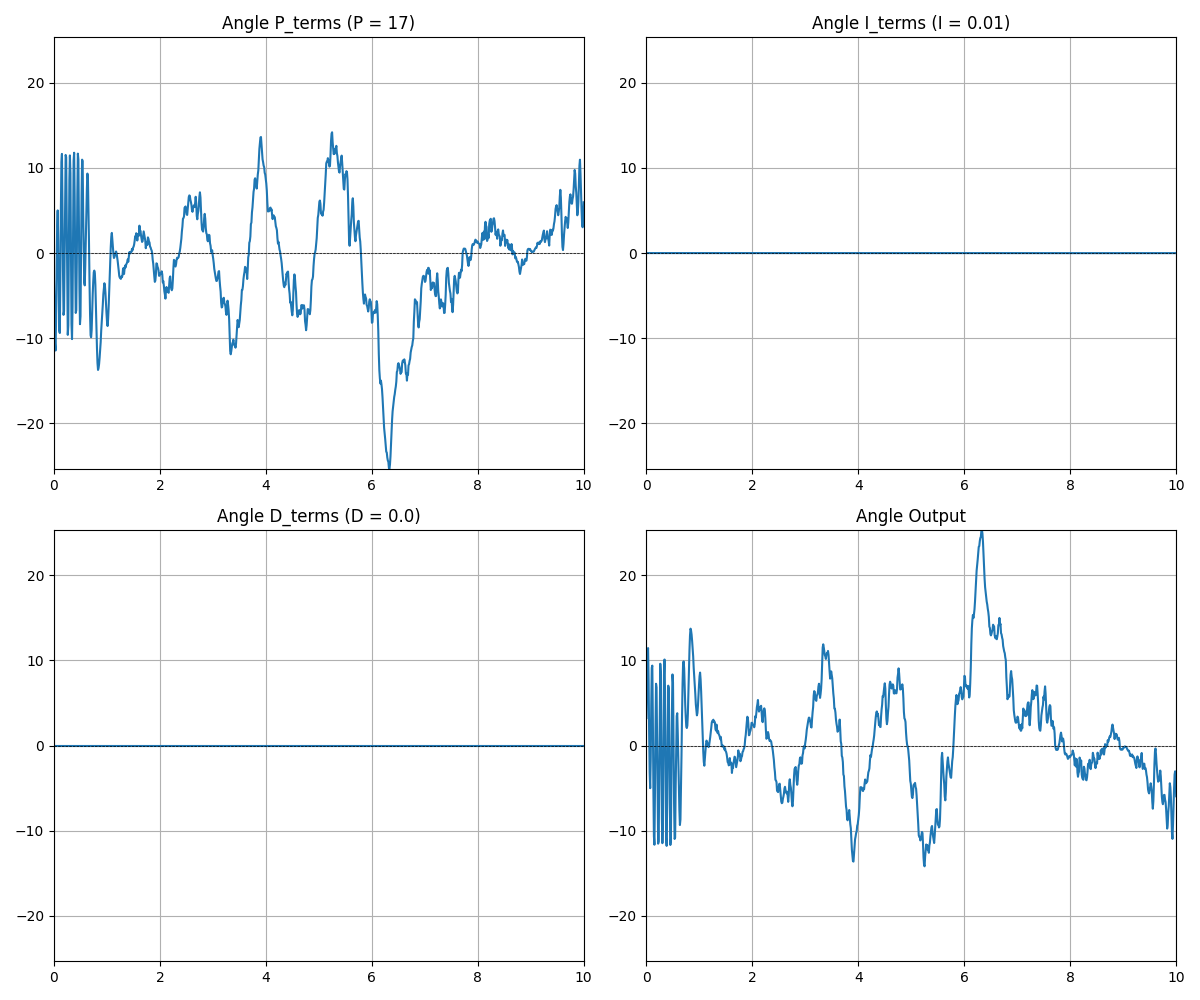
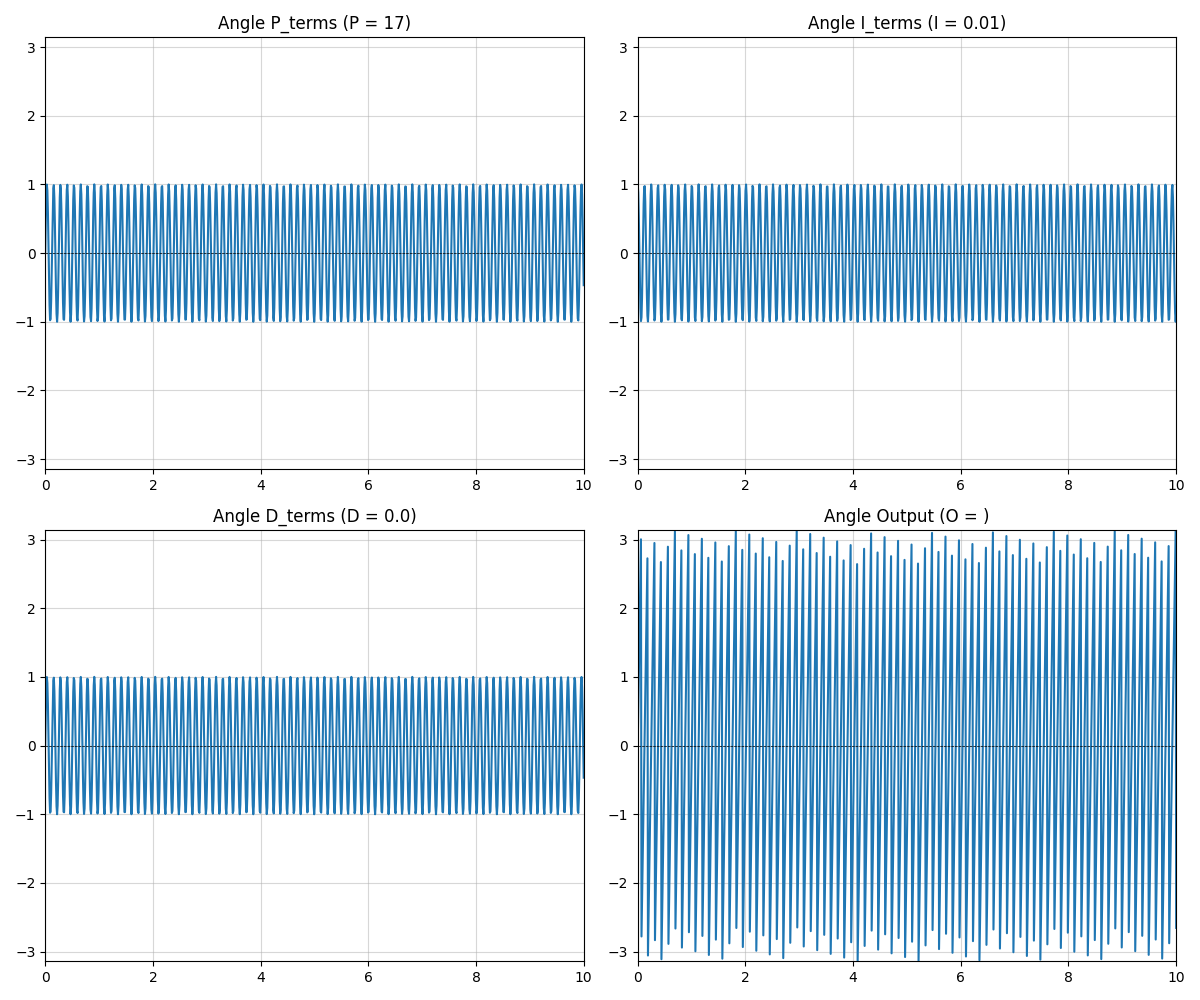
Trying to make graphs more visible or interactive

diff --git a/src/util/plot_graphs.py b/src/util/plot_graphs.py
@@ -2,209 +2,185 @@ import matplotlib.pyplot as plt
 import numpy as np
 
 class Plotter:
-    def __init__(self, apid, ppid, timer=10):
+    def __init__(self, apid, ppid):
+        """
+        Initialize the Plotter with PID constants for angle and position.
+
+        :param apid: List of PID constants for angle [P, I, D]
+        :param ppid: List of PID constants for position [P, I, D]
+        """
         self.pid_constants = {
-            'Angle': {
-                'P': apid[0],
-                'I': apid[1],
-                'D': apid[2],
-            },
-            'Position': {
-                'P': ppid[0],
-                'I': ppid[1],
-                'D': ppid[2]
-            }
+            'Angle': {'P': apid[0], 'I': apid[1], 'D': apid[2]},
+            'Position': {'P': ppid[0], 'I': ppid[1], 'D': ppid[2]}
         }
         self.title = f"(AP={apid[0]}, AI={apid[1]}, AD={apid[2]}, PP={ppid[0]}, PI={ppid[1]}, PD={ppid[2]})"
-        self.timer = timer
-        self.color_cycle = [
-            '#0077BB', '#44A0E6', '#0099CC',
-            '#FF69B4', '#FFFF00', '#FFA07A',
-            '#8B0A0A', '#6495ED', '#4B0082',
-            '#32CD32', '#008000',
-            '#964B00', '#666666', '#C5CAE9'
-        ]
+        self.color_cycle = plt.cm.tab20.colors
 
-    def stackplot_pid_values(self, p_terms, i_terms, d_terms, name="PID_stackplot"):
-        fig, plts = plt.subplots(figsize = (10, 10))
-
-        # Need size of smallest dataset to be able to plot properly
-        smaller_value = min(len(p_terms), len(i_terms), len(d_terms))
-        time_values = np.linspace(0, self.timer, smaller_value)
-
-        plts.set_xlim(0, self.timer)
-        
-        plts.set_alpha(0.5)
-        color_map = ["#0000FF", "#00FF00", "#FF0000"]
-        y = np.vstack([p_terms, i_terms, d_terms])
-        plts.stackplot(time_values, y, colors = color_map)
-        
-        plt.title(f'Stackplot PID values {self.title}')
-        plt.savefig(f'graphs/{name}')
-
-
-    def subplot_p_i_d_values(self, pid_type, pid_terms, data_range_percentile=99, name="PID_subplot"):
+    def stackplot_pid_values(self, p_terms, i_terms, d_terms, timer, name="PID_stackplot"):
         """
-        Parameters:
-        - pid_type: Type of PID (e.g., 'Angle', 'Position')
-        - pid_terms: Dictionary containing PID terms (pterms, iterms, dterms)
-        - data_range_percentile: Percentile to determine Y-axis limits (symmetrical around zero)
-        - name: Name for the saved plot file
+        Create a stack plot of PID values.
+
+        :param p_terms: List of P terms
+        :param i_terms: List of I terms
+        :param d_terms: List of D terms
+        :param timer: Duration for the x-axis
+        :param name: Name for the saved plot file
         """
-        fig, plts = plt.subplots(2, 2, figsize=(12, 10))
-        plts = [plts] if not isinstance(plts, np.ndarray) else plts  # Handle both cases for plts
-        plot_indices = [(0, 0), (0, 1), (1, 0), (1, 1)]
+        try:
+            fig, plts = plt.subplots(figsize=(10, 10))
+            smaller_value = min(len(p_terms), len(i_terms), len(d_terms))
+            time_values = np.linspace(0, timer, smaller_value)
 
-        # Calculate symmetrical y-limits based on the data range percentile
-        all_values = [val for _, values in pid_terms.items() for val in values]
-        lower_lim = np.percentile(all_values, (100 - data_range_percentile) / 2)
-        upper_lim = np.percentile(all_values, 100 - (100 - data_range_percentile) / 2)
-        y_lim = max(abs(lower_lim), abs(upper_lim))
+            plts.set_xlim(0, timer)
+            plts.set_alpha(0.5)
+            color_map = ["#0000FF", "#00FF00", "#FF0000"]
+            y = np.vstack([p_terms, i_terms, d_terms])
+            plts.stackplot(time_values, y, colors=color_map)
 
-        for (i, j), (label, values) in zip(plot_indices, pid_terms.items()):
-            plts[i, j].set_xlim(0, self.timer)
-            plts[i, j].set_ylim(-y_lim, y_lim)
-            x = np.linspace(0, self.timer, len(values))
-            plts[i, j].plot(x, values)
-            plts[i, j].grid()
-            
-            # Zero line for better visibility
-            plts[i, j].axhline(0, color='black', lw=0.5, linestyle='--')
-            
-            if label in ['p_terms', 'i_terms', 'd_terms']:
+            plt.title(f'Stackplot PID values {self.title}')
+            plt.savefig(f'graphs/{name}')
+        except Exception as e:
+            print(f"Error in stackplot_pid_values: {e}")
+
+    def subplot_p_i_d_values(self, pid_type, pid_terms, timer, data_range_percentile=99, name="PID_subplot"):
+        """
+        Create subplots for P, I, and D values.
+
+        :param pid_type: Type of PID (e.g., 'Angle', 'Position')
+        :param pid_terms: Dictionary containing PID terms (pterms, iterms, dterms)
+        :param timer: Duration for the x-axis
+        :param data_range_percentile: Percentile to determine Y-axis limits (symmetrical around zero)
+        :param name: Name for the saved plot file
+        """
+        try:
+            fig, plts = plt.subplots(2, 2, figsize=(12, 10))
+            plts = [plts] if not isinstance(plts, np.ndarray) else plts
+            plot_indices = [(0, 0), (0, 1), (1, 0), (1, 1)]
+
+            all_values = [val for _, values in pid_terms.items() for val in values]
+            lower_lim = np.percentile(all_values, (100 - data_range_percentile) / 2)
+            upper_lim = np.percentile(all_values, 100 - (100 - data_range_percentile) / 2)
+            y_lim = max(abs(lower_lim), abs(upper_lim))
+
+            for (i, j), (label, values) in zip(plot_indices, pid_terms.items()):
+                plts[i, j].set_xlim(0, timer)
+                plts[i, j].set_ylim(-y_lim, y_lim)
+                x = np.linspace(0, timer, len(values))
+                plts[i, j].plot(x, values)
+                plts[i, j].grid(alpha=0.5)
+                plts[i, j].axhline(0, color='black', lw=0.5, linestyle='--')
                 pid_constant_label = label[:1].upper()
-                pid_constant_value = self.pid_constants[pid_type][pid_constant_label]
+                pid_constant_value = self.pid_constants[pid_type].get(pid_constant_label, '')
                 plts[i, j].set_title(f'{pid_type} {label.capitalize()} ({pid_constant_label} = {pid_constant_value})')
-            else:
-                plts[i, j].set_title(f'{pid_type} {label.capitalize()}')
-        
-        plt.tight_layout()  
-        plt.savefig(f'graphs/{pid_type}_{name}.png')
 
+            plt.tight_layout()
+            plt.savefig(f'graphs/{pid_type}_{name}.png')
+        except Exception as e:
+            print(f"Error in subplot_p_i_d_values: {e}")
 
-    def plot_measurements(
-        self,
-        left_axis_key: str,
-        left_axis_values: dict[list[float]],
-        right_axis_key: str = None,
-        right_axis_values: dict[list[float]] = None,
-        name: str = "Measurement_Plot"
-    ):
+    def plot_measurements(self, left_axis_key, left_axis_values, timer, right_axis_key=None, right_axis_values=None, name="Measurement_Plot"):
         """
         Plot multiple series on the left axis and optionally on the right axis.
+
         :param left_axis_key: Label for the left axis
-        :param left_axis_values: List of lists of values for the left axis
+        :param left_axis_values: Dictionary of lists of values for the left axis
+        :param timer: Duration for the x-axis
         :param right_axis_key: [Optional] Label for the right axis
-        :param right_axis_values: [Optional] List of lists of values for the right axis
+        :param right_axis_values: [Optional] Dictionary of lists of values for the right axis
         :param name: Output plot file name (default: "Measurement_Plot")
         """
+        try:
+            fig, left_ax = plt.subplots(figsize=(6.4, 4.8))
 
-        fig, left_ax = plt.subplots(figsize=(6.4, 4.8))
-
-        # Determine if we need a right axis
-        if right_axis_values is not None:
-            right_ax = left_ax.twinx()
-            axes_values_list = [left_axis_values, right_axis_values]
-            axes_keys_list = [left_axis_key, right_axis_key]
-        else:
-            axes_values_list = [left_axis_values]
-            axes_keys_list = [left_axis_key]
-
-        # Calculate max length and values (considering both axes if applicable)
-        max_len = max((max(len(values) for values in axis_values.values()) if axis_values else 1 for axis_values in axes_values_list), default=1)
-        max_values = [max(max(abs(x) for x in sublist) for sublist in axis_values.values()) if axis_values else 0 for axis_values in axes_values_list]
-
-        time_values = np.linspace(0, self.timer, max_len)
-
-        # Colors for all series across both axes
-        colors = plt.cm.tab20(range(sum(len(axis_values) for axis_values in axes_values_list)))
-        counter = 0
-
-        # Plot values for both axes
-        for ax, (axis_key, axis_values) in enumerate(zip(axes_keys_list, axes_values_list)):
-            if ax == 1:  # Right axis
-                current_ax = right_ax
+            if right_axis_values is not None:
+                right_ax = left_ax.twinx()
+                axes_values_list = [left_axis_values, right_axis_values]
+                axes_keys_list = [left_axis_key, right_axis_key]
             else:
-                current_ax = left_ax
+                axes_values_list = [left_axis_values]
+                axes_keys_list = [left_axis_key]
 
-            for key, values in axis_values.items():
-                plot_values = values[:max_len]
-                time_values_plot = time_values[:len(plot_values)]
-                current_ax.plot(time_values_plot, plot_values, label=f"{key}", color=colors[counter])
-                counter += 1
+            max_len = max((max(len(values) for values in axis_values.values()) if axis_values else 1 for axis_values in axes_values_list), default=1)
+            max_values = [max(max(abs(x) for x in sublist) for sublist in axis_values.values()) if axis_values else 0 for axis_values in axes_values_list]
 
-        # Set limits and labels for both axes
-        left_ax.set_xlim(0, self.timer)
-        left_ax.set_ylim(-max_values[0], max_values[0])
-        left_ax.set_xlabel('Time [s]')
-        left_ax.set_ylabel(left_axis_key)
-        
-        if right_axis_values is not None:
-            right_ax.set_ylim(-max_values[1], max_values[1])
-            right_ax.set_ylabel(right_axis_key)
+            time_values = np.linspace(0, timer, max_len)
+            colors = plt.cm.tab20(range(sum(len(axis_values) for axis_values in axes_values_list)))
+            counter = 0
 
-        # Legend handling (combine labels if both axes are used)
-        if right_axis_values is not None:
-            fig.legend(handles=left_ax.lines + right_ax.lines, 
-                        labels=[f"{key}" for key, values in left_axis_values.items()] + [f"{key}" for key, values in right_axis_values.items()], 
-                        loc='upper right', ncol=2)
-        else:
-            fig.legend(handles=left_ax.lines, 
-                        labels=[f"{key}" for key, values in left_axis_values.items()], 
-                        loc='upper right', ncol=2)
+            for ax, (axis_key, axis_values) in enumerate(zip(axes_keys_list, axes_values_list)):
+                current_ax = right_ax if ax == 1 else left_ax
+                for key, values in axis_values.items():
+                    plot_values = values[:max_len]
+                    time_values_plot = time_values[:len(plot_values)]
+                    current_ax.plot(time_values_plot, plot_values, label=f"{key}", color=colors[counter])
+                    counter += 1
 
-        left_ax.axhline(y=0.0, linestyle='--')
-        # plt.title(f'Measurements {self.title}')
-        plt.savefig(f'graphs/{name}')
+            left_ax.set_xlim(0, timer)
+            left_ax.set_ylim(-max_values[0], max_values[0])
+            left_ax.set_xlabel('Time [s]')
+            left_ax.set_ylabel(left_axis_key)
 
+            if right_axis_values is not None:
+                right_ax.set_ylim(-max_values[1], max_values[1])
+                right_ax.set_ylabel(right_axis_key)
 
-    def plot_angles(self, data_sets, colors=None, name="Angles"):
-        fig, left_ax = plt.subplots(figsize = (6.4, 4.8))
+            fig.legend(loc='upper right', ncol=2)
+            left_ax.axhline(y=0.0, linestyle='--')
+            plt.savefig(f'graphs/{name}')
+        except Exception as e:
+            print(f"Error in plot_measurements: {e}")
 
-        if colors is None:
-            colors = ["#a2a2a2", "#4e4e4e", "#22e032"]
+    def plot_angles(self, data_sets, timer, colors=None, name="Angles"):
+        """
+        Plot angles over time.
 
-        for i, [data, label] in enumerate(data_sets):
-            time_values = np.linspace(0, self.timer, len(data))
-            color = colors[i % len(colors)]
-            left_ax.plot(time_values, data, color=color, label=label)
+        :param data_sets: List of tuples containing data and labels [(data, label), ...]
+        :param timer: Duration for the x-axis
+        :param colors: List of colors for the plots
+        :param name: Name for the saved plot file
+        """
+        try:
+            fig, left_ax = plt.subplots(figsize=(6.4, 4.8))
 
-        # avg_angle = np.mean(self.collected_data['angles'], axis=0)
-        left_ax.axhline(y=0, color='k', linestyle='--')
-        left_ax.set_xlim(0, self.timer)
+            if colors is None:
+                colors = ["#a2a2a2", "#4e4e4e", "#22e032"]
 
-        left_ax.set_xlabel('Zeit [s]')
-        left_ax.set_ylabel('Winkel [°]')
+            for i, (data, label) in enumerate(data_sets):
+                time_values = np.linspace(0, timer, len(data))
+                color = colors[i % len(colors)]
+                left_ax.plot(time_values, data, color=color, label=label)
 
-        plt.legend()
-        # plt.title(f'Accel- and Gyroangles {self.title}')
-        plt.savefig(f'graphs/{name}')
-
+            left_ax.axhline(y=0, color='k', linestyle='--')
+            left_ax.set_xlim(0, timer)
+            left_ax.set_xlabel('Time [s]')
+            left_ax.set_ylabel('Angle [°]')
+            plt.legend()
+            plt.savefig(f'graphs/{name}')
+        except Exception as e:
+            print(f"Error in plot_angles: {e}")
 
     def print_averages(self, collected_data):
-        print("----- Average values -----")
-        for key, data in collected_data.items():
-            if "terms" in key:
-                avg_pterms, avg_iterms, avg_dterms = np.mean(data, axis=0)
-                print(f'{key:18}: P: {avg_pterms:6.5f}, I: {avg_iterms:6.5f}, D: {avg_dterms:6.5f}')
-            else:
-                avg = np.mean(data, axis=0)
-                print(f'{key:18}: {avg:.5f}')
+        """
+        Print average values of collected data.
 
+        :param collected_data: Dictionary of collected data
+        """
+        try:
+            print("----- Average values -----")
+            for key, data in collected_data.items():
+                if "terms" in key:
+                    avg_pterms, avg_iterms, avg_dterms = np.mean(data, axis=0)
+                    print(f'{key:18}: P: {avg_pterms:6.5f}, I: {avg_iterms:6.5f}, D: {avg_dterms:6.5f}')
+                else:
+                    avg = np.mean(data, axis=0)
+                    print(f'{key:18}: {avg:.5f}')
+        except Exception as e:
+            print(f"Error in print_averages: {e}")
 
 if __name__ == "__main__":
-    angle_pid_const = [
-        10,
-        5,
-        1
-    ]
-    pos_pid_const = [
-        1,
-        5,
-        10
-    ]
-    plotter = Plotter(angle_pid_const, pos_pid_const, 10)
-    left_values = [[1,2,3,4,5],'1',[5,4,3,2,1],'2']
-    right_values = [[100,200,300,400,500], 'steps']
-    print(left_values + right_values)
-    # plotter.plot_measurements(left_values, right_values)
+    angle_pid_const = [10, 5, 1]
+    pos_pid_const = [1, 5, 10]
+    plotter = Plotter(angle_pid_const, pos_pid_const)
+    left_values = {'1': [1, 2, 3, 4, 5], '2': [5, 4, 3, 2, 1]}
+    right_values = {'steps': [100, 200, 300, 400, 500]}
+    plotter.plot_measurements('Left Axis', left_values, 10, 'Right Axis', right_values)

diff --git a/tests/test_plotter.py b/tests/test_plotter.py
@@ -1,0 +1,36 @@
+import sys
+import os
+import numpy as np
+sys.path.insert(0, os.path.abspath(os.path.join(os.path.dirname(__file__), '..')))
+
+from src.util.plot_graphs import Plotter
+
+def generate_dynamic_values(num_points, timer, frequency=1):
+    """Generates dynamic values for p_terms, i_terms, d_terms, and output with a given frequency."""
+    time_values = np.linspace(0, timer, num_points)
+    p_terms = np.sin(frequency * time_values)
+    i_terms = np.cos(frequency * time_values)
+    d_terms = np.sin(frequency * time_values)
+    output = np.arctan2(np.sin(frequency * time_values), np.cos(frequency * time_values))
+    return time_values, p_terms, i_terms, d_terms, output
+
+# Generate dynamic values with increased frequency
+num_points = 1000
+timer = 10
+frequency = 50  # Increase this value to squash the wave together more
+ms, p_terms, i_terms, d_terms, output = generate_dynamic_values(num_points, timer, frequency)
+
+# Angle PID
+AP = 17
+AI = 0.01
+AD = 0.00
+# Position PID
+PP = 0.0005
+PI = 0.0
+PD = 0.0006
+
+angle_pid_const = [AP, AI, AD]
+pos_pid_const = [PP, PI, PD]
+
+plotter = Plotter(angle_pid_const, pos_pid_const)
+plotter.subplot_p_i_d_values('Angle', {'p_terms': p_terms, 'i_terms': i_terms, 'd_terms': d_terms, 'output': output}, timer, 100, 'PID_Terms')
